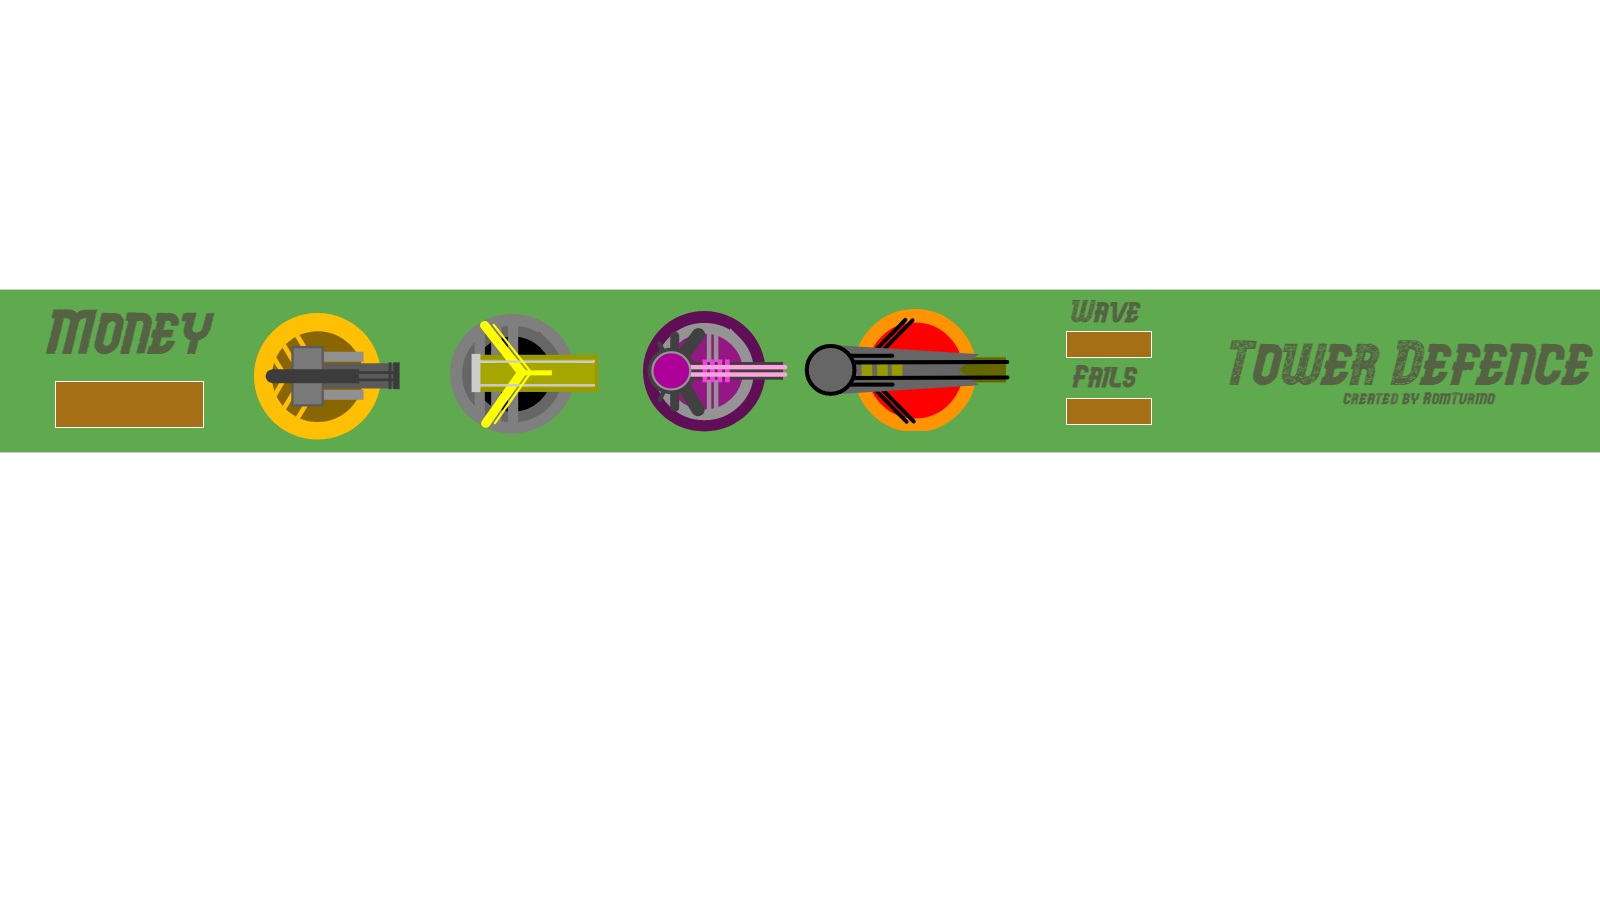
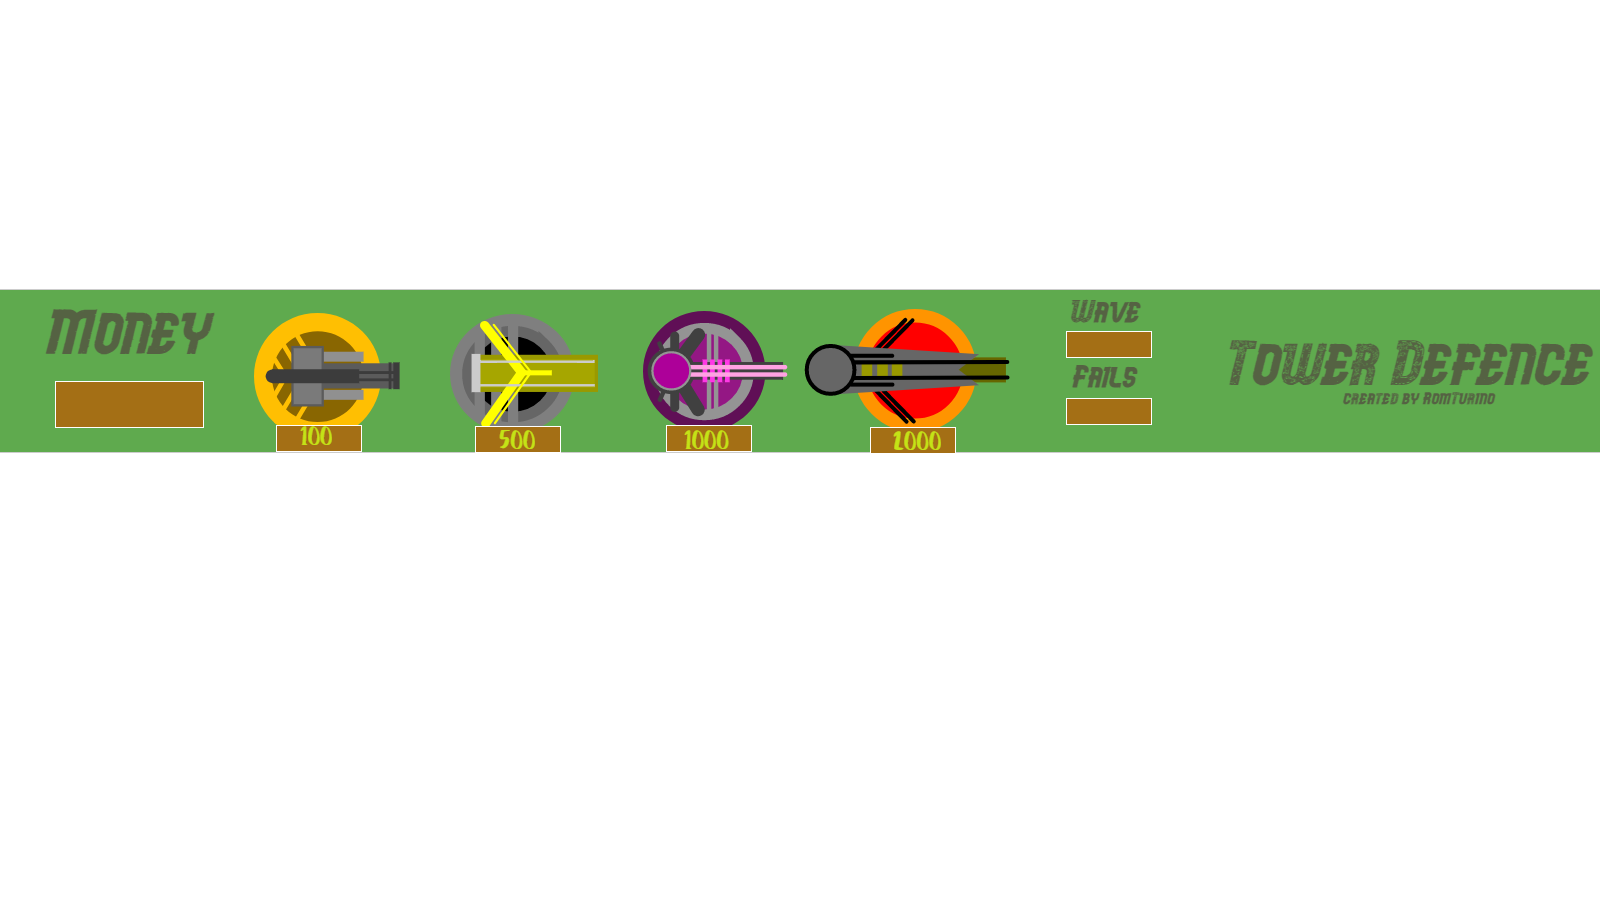
changed the price of annihilator

diff --git a/arcade_template.py b/arcade_template.py
@@ -271,7 +271,7 @@ class Annihilator(Gun):
         for i in range(1, 5):
             self.textures.append(arcade.load_texture(f'guns/annihilator{i}.png'))
         self.texture = self.textures[0]
-        self.cost = 3000
+        self.cost = 2000
 
 
 class MyGame(arcade.Window):
@@ -279,7 +279,7 @@ class MyGame(arcade.Window):
         super().__init__(width, height, title)
         # текстуры
         self.bg = arcade.load_texture('blocks/grass.png')
-        self.menu = arcade.load_texture('menu/tower_menu.png')
+        self.menu = arcade.load_texture('menu/menu.png')
         self.win = arcade.load_texture('endgame/win.png')
         self.lost = arcade.load_texture('endgame/lost.png')
 
@@ -401,8 +401,7 @@ class MyGame(arcade.Window):
 
     def on_mouse_release(self, x: float, y: float, button: int,
                          modifiers: int):
-        if self.activ_hand != None and y < CELL_HEIGHT * (
-                COLUMN_COUNT - 2) and self.activ_hand.cost <= self.money:  # мышь должна быть на поле, а денег должно хватать
+        if self.activ_hand != None and y < CELL_HEIGHT * (COLUMN_COUNT - 2) and self.activ_hand.cost <= self.money:  # мышь должна быть на поле, а денег должно хватать
             self.activ_hand.center_x = justify_x(x)  # выравнивание
             self.activ_hand.center_y = justify_y(y)
             if (self.activ_hand.center_x, self.activ_hand.center_y) not in self.sand_coords and \
